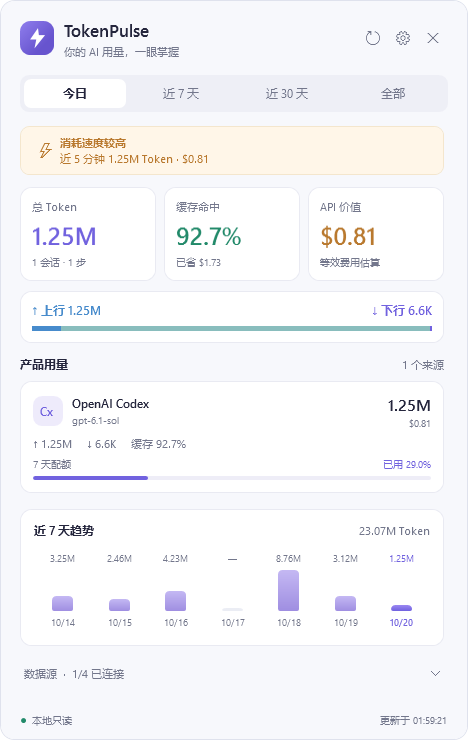
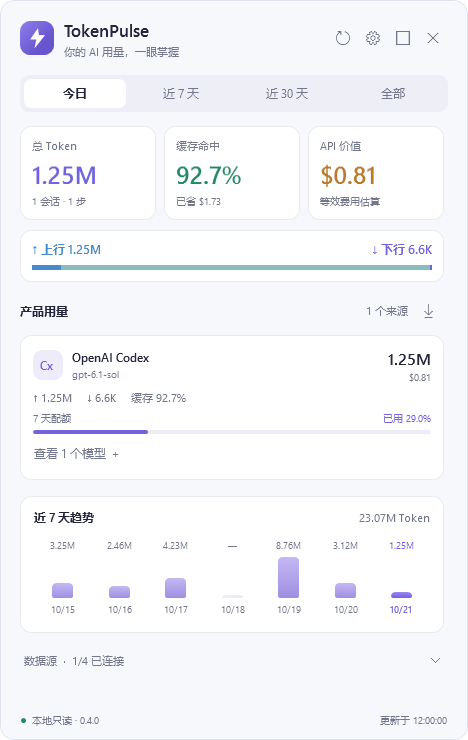
docs(windows): show verified 0.4.0 settings and dashboard

diff --git a/windows/VERIFICATION.md b/windows/VERIFICATION.md
@@ -9,6 +9,7 @@ Status recorded on 2026-10-20. Host: macOS arm64. SDK used for C#: .NET 10.0.402
 - Split settings into source and behavior tabs, preserving unsaved edits. Only enabled paths require validation. Threshold input rejects negatives/non-finite values, and a scoped reset restores only the default thresholds.
 - Saving settings cancels stale aggregation, tags scans with the settings used to read them, and disables export until a matching scan is displayed.
 - Core regression additions cover all 16 source combinations, disabled invalid paths, cache invalidation/re-enable, old JSON defaults, persistence, threshold boundaries and independent disabling. WPF scenarios exercise disabled-source and disabled-alert states, tab persistence, source input disabling, invalid threshold rejection, defaults restoration, and the settings callback.
+- [Windows CI for `16b9561`](https://github.com/leeeway/TokenPulse/actions/runs/39527572441) passed 26 core tests, self-contained packaging, actual WPF/tray startup and visual scenarios. The generated dashboard/settings screenshots were inspected and saved in `docs/`. [Independent macOS CI](https://github.com/leeeway/TokenPulse/actions/runs/39527572542) also passed; local Swift tests (3) and Release build passed.
 - Windows 11 physical mixed-DPI, tray/Explorer recovery and file-dialog interaction still require the manual checklist. Existing Mac sources/build configuration are unchanged.
 
 ## 2026-10-21 review: Windows 0.3.0

diff --git a/windows/README.md b/windows/README.md
@@ -29,6 +29,8 @@ Windows 面板采用紧凑的圆角窗口、分段周期选择、三张用量指
 
 ![TokenPulse Windows 偏好设置](docs/settings.png)
 
+![TokenPulse Windows 提醒与运行偏好](docs/settings-preferences.png)
+
 每次 Windows CI 还会生成 `Windows-UI-previews` 附件：使用合成数据直接渲染 WPF 的正常、预警、空数据、窄窗口多来源、数据源详情和设置页，分别导出 100% 与 150% 图像。截图不含真实用户日志。可在 Windows 上手动运行：
 
 ```powershell
